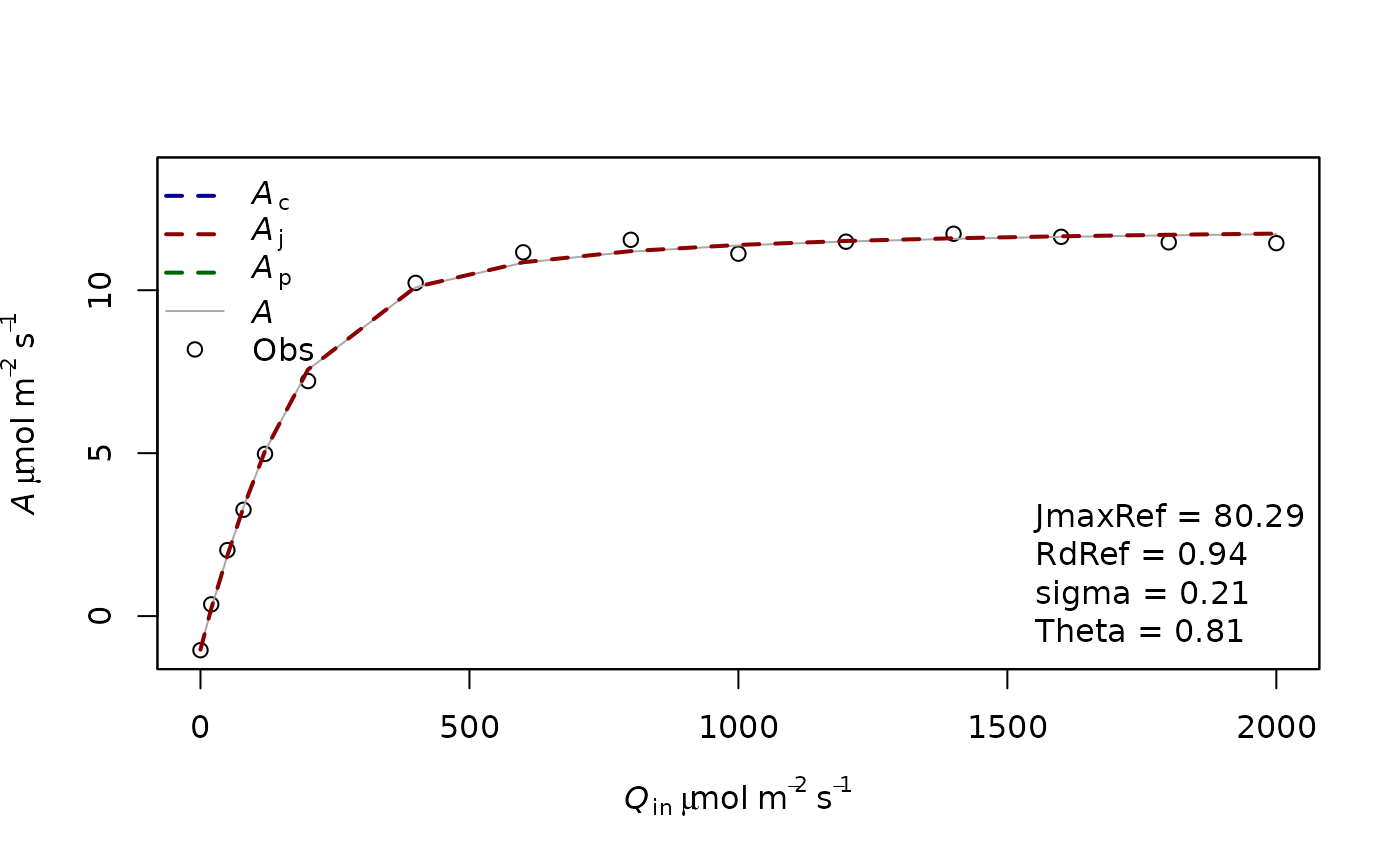
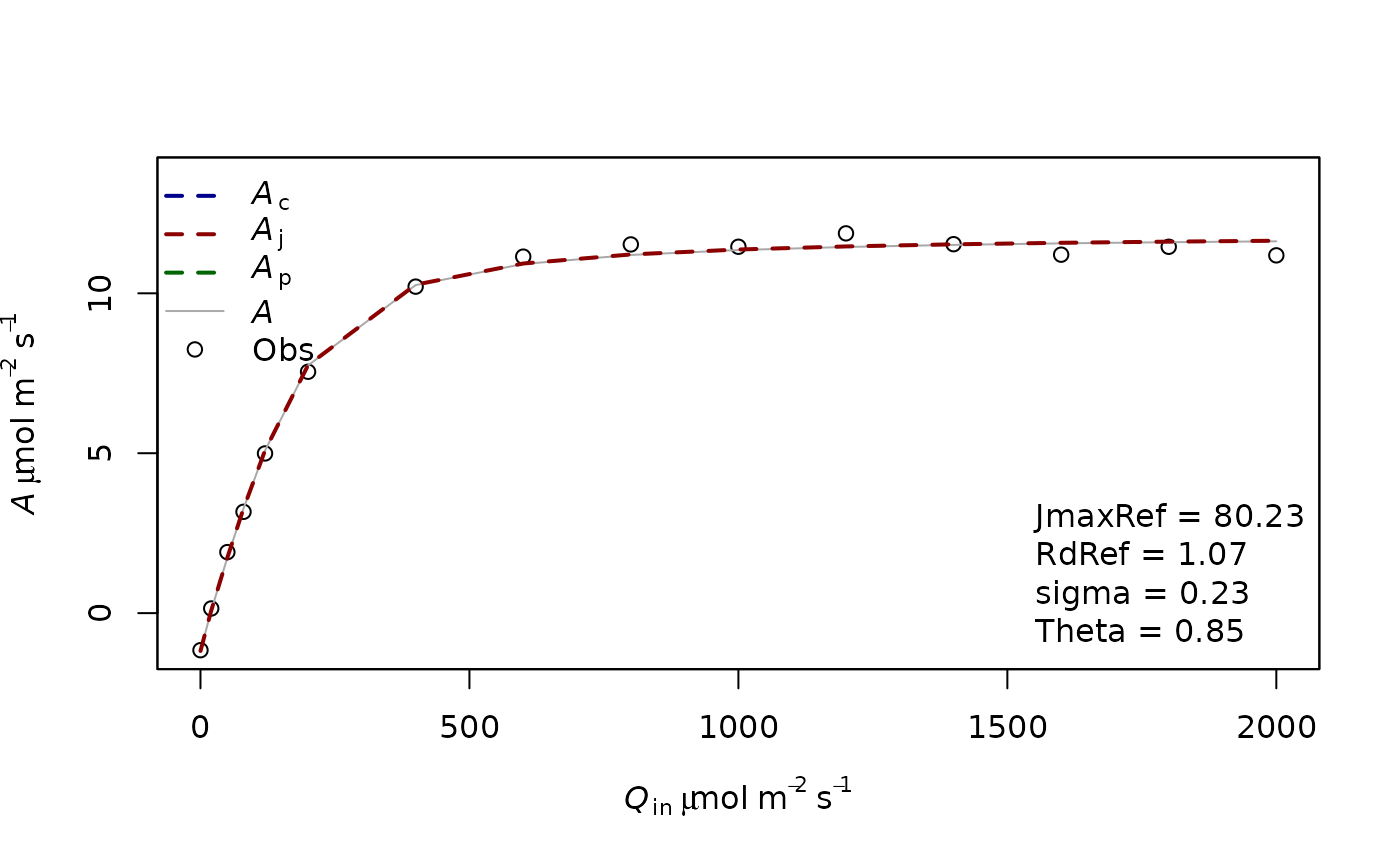
Deploying to gh-pages from @ CUG-hydro/LeafGasExchange@0faab751093cabe184581098b58cc48c0c13c539 🚀

diff --git a/articles/Aq_fitting.html b/articles/Aq_fitting.html
@@ -175,14 +175,14 @@ this assumption later.</p>
 <span>                   modify.init<span class="op">=</span><span class="cn">TRUE</span>,do.plot<span class="op">=</span><span class="cn">TRUE</span>,type<span class="op">=</span><span class="st">'Aq'</span><span class="op">)</span></span></code></pre></div>
 <pre><code><span><span class="co">## $par</span></span>
 <span><span class="co">##    JmaxRef      RdRef      Theta </span></span>
-<span><span class="co">## 91.1058040  1.0993250  0.6656334 </span></span>
+<span><span class="co">## 88.2252853  0.9711878  0.6978096 </span></span>
 <span><span class="co">## </span></span>
 <span><span class="co">## $value</span></span>
-<span><span class="co">## [1] 0.356863</span></span>
+<span><span class="co">## [1] 0.1896975</span></span>
 <span><span class="co">## </span></span>
 <span><span class="co">## $counts</span></span>
 <span><span class="co">## function gradient </span></span>
-<span><span class="co">##      120       NA </span></span>
+<span><span class="co">##      126       NA </span></span>
 <span><span class="co">## </span></span>
 <span><span class="co">## $convergence</span></span>
 <span><span class="co">## [1] 0</span></span>
@@ -190,7 +190,7 @@ this assumption later.</p>
 <span><span class="co">## $message</span></span>
 <span><span class="co">## NULL</span></span>
 <span><span class="co">## </span></span>
-<span><span class="co">## [1] "sd 0.15424288223646"</span></span>
+<span><span class="co">## [1] "sd 0.112456671774165"</span></span>
 <span><span class="co">## Length  Class   Mode </span></span>
 <span><span class="co">##      1   mle2     S4</span></span></code></pre>
 <p><img src="Aq_fitting_files/figure-html/unnamed-chunk-5-1.png" width="700"></p>
@@ -202,22 +202,22 @@ no information in the curve to estimate it.</p>
 <span>                   modify.init<span class="op">=</span><span class="cn">TRUE</span>,do.plot<span class="op">=</span><span class="cn">TRUE</span>,type<span class="op">=</span><span class="st">'Aq'</span><span class="op">)</span></span></code></pre></div>
 <pre><code><span><span class="co">## $par</span></span>
 <span><span class="co">##     JmaxRef    VcmaxRef       RdRef       Theta </span></span>
-<span><span class="co">##  91.1472544 223.2039836   1.0999653   0.6656598 </span></span>
+<span><span class="co">##  88.3400110 107.2449843   0.9708728   0.6976149 </span></span>
 <span><span class="co">## </span></span>
 <span><span class="co">## $value</span></span>
-<span><span class="co">## [1] 0.3569293</span></span>
+<span><span class="co">## [1] 0.1896713</span></span>
 <span><span class="co">## </span></span>
 <span><span class="co">## $counts</span></span>
 <span><span class="co">## function gradient </span></span>
-<span><span class="co">##      501       NA </span></span>
+<span><span class="co">##      445       NA </span></span>
 <span><span class="co">## </span></span>
 <span><span class="co">## $convergence</span></span>
-<span><span class="co">## [1] 1</span></span>
+<span><span class="co">## [1] 0</span></span>
 <span><span class="co">## </span></span>
 <span><span class="co">## $message</span></span>
 <span><span class="co">## NULL</span></span>
 <span><span class="co">## </span></span>
-<span><span class="co">## [1] "sd 0.154257212993837"</span></span>
+<span><span class="co">## [1] "sd 0.112448902807969"</span></span>
 <span><span class="co">## Length  Class   Mode </span></span>
 <span><span class="co">##      1   mle2     S4</span></span></code></pre>
 <p><img src="Aq_fitting_files/figure-html/unnamed-chunk-6-1.png" width="700"></p>
@@ -231,34 +231,34 @@ in the input data file of the function (see the help of f.fitting for
 more info).</p>
 <div class="sourceCode" id="cb9"><pre class="downlit sourceCode r">
 <code class="sourceCode R"><span><span class="fu"><a href="https://rdrr.io/r/stats/confint.html" class="external-link">confint</a></span><span class="op">(</span><span class="va">fitting1</span><span class="op">[[</span><span class="fl">2</span><span class="op">]</span><span class="op">]</span><span class="op">)</span></span></code></pre></div>
-<pre><code><span><span class="co">##              2.5 %     97.5 %</span></span>
-<span><span class="co">## sigma    0.1121193  0.2315494</span></span>
-<span><span class="co">## JmaxRef 89.5922893 92.6655218</span></span>
-<span><span class="co">## RdRef    0.9488200  1.2489213</span></span>
-<span><span class="co">## Theta    0.6028079  0.7204107</span></span></code></pre>
+<pre><code><span><span class="co">##               2.5 %     97.5 %</span></span>
+<span><span class="co">## sigma    0.08174494  0.1688199</span></span>
+<span><span class="co">## JmaxRef 87.16275567 89.3061391</span></span>
+<span><span class="co">## RdRef    0.86066886  1.0810409</span></span>
+<span><span class="co">## Theta    0.65500027  0.7364002</span></span></code></pre>
 <p>It is possible to compare the AIC of the two models using the base
 function AIC or BIC. The lower AIC or BIC corresponds to the best model.
 It shows in this case that adding VcmaxRef is not usefull.</p>
 <div class="sourceCode" id="cb11"><pre class="downlit sourceCode r">
 <code class="sourceCode R"><span><span class="fu"><a href="https://rdrr.io/r/stats/AIC.html" class="external-link">BIC</a></span><span class="op">(</span><span class="va">fitting1</span><span class="op">[[</span><span class="fl">2</span><span class="op">]</span><span class="op">]</span><span class="op">)</span></span></code></pre></div>
-<pre><code><span><span class="co">## [1] -7.963471</span></span></code></pre>
+<pre><code><span><span class="co">## [1] -17.44228</span></span></code></pre>
 <div class="sourceCode" id="cb13"><pre class="downlit sourceCode r">
 <code class="sourceCode R"><span><span class="fu"><a href="https://rdrr.io/r/stats/AIC.html" class="external-link">BIC</a></span><span class="op">(</span><span class="va">fitting2</span><span class="op">[[</span><span class="fl">2</span><span class="op">]</span><span class="op">]</span><span class="op">)</span></span></code></pre></div>
-<pre><code><span><span class="co">## [1] -6.574518</span></span></code></pre>
+<pre><code><span><span class="co">## [1] -16.05806</span></span></code></pre>
 <p>We can redo this procedure for the second simulated curve:</p>
 <div class="sourceCode" id="cb15"><pre class="downlit sourceCode r">
 <code class="sourceCode R"><span><span class="va">fitting3</span><span class="op">=</span><span class="fu"><a href="../reference/f.fitting.html">f.fitting</a></span><span class="op">(</span>measures <span class="op">=</span> <span class="va">measures2</span>,Start <span class="op">=</span> <span class="fu"><a href="https://rdrr.io/r/base/list.html" class="external-link">list</a></span><span class="op">(</span>JmaxRef <span class="op">=</span> <span class="fl">30</span>, RdRef <span class="op">=</span> <span class="fl">1</span>,Theta<span class="op">=</span><span class="fl">0.5</span><span class="op">)</span>,param<span class="op">=</span><span class="fu"><a href="../reference/f.make.param.html">f.make.param</a></span><span class="op">(</span>abso<span class="op">=</span><span class="fl">0.9</span>,VcmaxRef<span class="op">=</span><span class="fl">150</span><span class="op">)</span>,</span>
 <span>                   modify.init<span class="op">=</span><span class="cn">TRUE</span>,do.plot<span class="op">=</span><span class="cn">TRUE</span>,type<span class="op">=</span><span class="st">'Aq'</span><span class="op">)</span></span></code></pre></div>
 <pre><code><span><span class="co">## $par</span></span>
 <span><span class="co">##    JmaxRef      RdRef      Theta </span></span>
-<span><span class="co">## 80.2918206  0.9357455  0.8066975 </span></span>
+<span><span class="co">## 80.2257330  1.0748982  0.8526667 </span></span>
 <span><span class="co">## </span></span>
 <span><span class="co">## $value</span></span>
-<span><span class="co">## [1] 0.6441247</span></span>
+<span><span class="co">## [1] 0.7857634</span></span>
 <span><span class="co">## </span></span>
 <span><span class="co">## $counts</span></span>
 <span><span class="co">## function gradient </span></span>
-<span><span class="co">##      132       NA </span></span>
+<span><span class="co">##      116       NA </span></span>
 <span><span class="co">## </span></span>
 <span><span class="co">## $convergence</span></span>
 <span><span class="co">## [1] 0</span></span>
@@ -266,7 +266,7 @@ It shows in this case that adding VcmaxRef is not usefull.</p>
 <span><span class="co">## $message</span></span>
 <span><span class="co">## NULL</span></span>
 <span><span class="co">## </span></span>
-<span><span class="co">## [1] "sd 0.207223659568046"</span></span>
+<span><span class="co">## [1] "sd 0.228876012575196"</span></span>
 <span><span class="co">## Length  Class   Mode </span></span>
 <span><span class="co">##      1   mle2     S4</span></span></code></pre>
 <p><img src="Aq_fitting_files/figure-html/unnamed-chunk-9-1.png" width="700"></p>
@@ -275,14 +275,14 @@ It shows in this case that adding VcmaxRef is not usefull.</p>
 <span>                   modify.init<span class="op">=</span><span class="cn">TRUE</span>,do.plot<span class="op">=</span><span class="cn">TRUE</span>,type<span class="op">=</span><span class="st">'Aq'</span><span class="op">)</span></span></code></pre></div>
 <pre><code><span><span class="co">## $par</span></span>
 <span><span class="co">##    JmaxRef      RdRef      Theta   VcmaxRef </span></span>
-<span><span class="co">## 91.0102515  0.8282943  0.6501977 54.4861347 </span></span>
+<span><span class="co">## 87.9468745  0.9802474  0.7498365 55.2109305 </span></span>
 <span><span class="co">## </span></span>
 <span><span class="co">## $value</span></span>
-<span><span class="co">## [1] 0.2620363</span></span>
+<span><span class="co">## [1] 0.431244</span></span>
 <span><span class="co">## </span></span>
 <span><span class="co">## $counts</span></span>
 <span><span class="co">## function gradient </span></span>
-<span><span class="co">##      299       NA </span></span>
+<span><span class="co">##      449       NA </span></span>
 <span><span class="co">## </span></span>
 <span><span class="co">## $convergence</span></span>
 <span><span class="co">## [1] 0</span></span>
@@ -290,7 +290,7 @@ It shows in this case that adding VcmaxRef is not usefull.</p>
 <span><span class="co">## $message</span></span>
 <span><span class="co">## NULL</span></span>
 <span><span class="co">## </span></span>
-<span><span class="co">## [1] "sd 0.132170675027424"</span></span>
+<span><span class="co">## [1] "sd 0.16955707050959"</span></span>
 <span><span class="co">## Length  Class   Mode </span></span>
 <span><span class="co">##      1   mle2     S4</span></span></code></pre>
 <p><img src="Aq_fitting_files/figure-html/unnamed-chunk-9-2.png" width="700"></p>
@@ -298,10 +298,10 @@ It shows in this case that adding VcmaxRef is not usefull.</p>
 a parameter to estimate:</p>
 <div class="sourceCode" id="cb19"><pre class="downlit sourceCode r">
 <code class="sourceCode R"><span><span class="fu"><a href="https://rdrr.io/r/stats/AIC.html" class="external-link">BIC</a></span><span class="op">(</span><span class="va">fitting3</span><span class="op">[[</span><span class="fl">2</span><span class="op">]</span><span class="op">]</span><span class="op">)</span></span></code></pre></div>
-<pre><code><span><span class="co">## [1] 0.8946358</span></span></code></pre>
+<pre><code><span><span class="co">## [1] 3.876087</span></span></code></pre>
 <div class="sourceCode" id="cb21"><pre class="downlit sourceCode r">
 <code class="sourceCode R"><span><span class="fu"><a href="https://rdrr.io/r/stats/AIC.html" class="external-link">BIC</a></span><span class="op">(</span><span class="va">fitting4</span><span class="op">[[</span><span class="fl">2</span><span class="op">]</span><span class="op">]</span><span class="op">)</span></span></code></pre></div>
-<pre><code><span><span class="co">## [1] -11.21021</span></span></code></pre>
+<pre><code><span><span class="co">## [1] -3.737345</span></span></code></pre>
 <p>In this case, the model with VcmaxRef is better.</p>
 <p>Generally it is interesting to test the fitting with or without
 VcmaxRef, and sometimes with or without Theta. Note that Theta can be

diff --git a/reference/f.Norman.Radiation.html b/reference/f.Norman.Radiation.html
@@ -1,8 +1,7 @@
 <!DOCTYPE html>
-<!-- Generated by pkgdown: do not edit by hand --><html lang="en"><head><meta http-equiv="Content-Type" content="text/html; charset=UTF-8"><meta charset="utf-8"><meta http-equiv="X-UA-Compatible" content="IE=edge"><meta name="viewport" content="width=device-width, initial-scale=1.0"><title>Norman 1979 Radiation interception model
-Converted into a R code from the original code of Gordon Bonan: Bonan, G. (2019). Climate Change and Terrestrial Ecosystem Modeling. Cambridge: Cambridge University Press. doi:10.1017/9781107339217 — f.Norman.Radiation • LeafGasExchange</title><!-- jquery --><script src="https://cdnjs.cloudflare.com/ajax/libs/jquery/3.4.1/jquery.min.js" integrity="sha256-CSXorXvZcTkaix6Yvo6HppcZGetbYMGWSFlBw8HfCJo=" crossorigin="anonymous"></script><!-- Bootstrap --><link rel="stylesheet" href="https://cdnjs.cloudflare.com/ajax/libs/twitter-bootstrap/3.4.1/css/bootstrap.min.css" integrity="sha256-bZLfwXAP04zRMK2BjiO8iu9pf4FbLqX6zitd+tIvLhE=" crossorigin="anonymous"><script src="https://cdnjs.cloudflare.com/ajax/libs/twitter-bootstrap/3.4.1/js/bootstrap.min.js" integrity="sha256-nuL8/2cJ5NDSSwnKD8VqreErSWHtnEP9E7AySL+1ev4=" crossorigin="anonymous"></script><!-- bootstrap-toc --><link rel="stylesheet" href="../bootstrap-toc.css"><script src="../bootstrap-toc.js"></script><!-- Font Awesome icons --><link rel="stylesheet" href="https://cdnjs.cloudflare.com/ajax/libs/font-awesome/5.12.1/css/all.min.css" integrity="sha256-mmgLkCYLUQbXn0B1SRqzHar6dCnv9oZFPEC1g1cwlkk=" crossorigin="anonymous"><link rel="stylesheet" href="https://cdnjs.cloudflare.com/ajax/libs/font-awesome/5.12.1/css/v4-shims.min.css" integrity="sha256-wZjR52fzng1pJHwx4aV2AO3yyTOXrcDW7jBpJtTwVxw=" crossorigin="anonymous"><!-- clipboard.js --><script src="https://cdnjs.cloudflare.com/ajax/libs/clipboard.js/2.0.6/clipboard.min.js" integrity="sha256-inc5kl9MA1hkeYUt+EC3BhlIgyp/2jDIyBLS6k3UxPI=" crossorigin="anonymous"></script><!-- headroom.js --><script src="https://cdnjs.cloudflare.com/ajax/libs/headroom/0.11.0/headroom.min.js" integrity="sha256-AsUX4SJE1+yuDu5+mAVzJbuYNPHj/WroHuZ8Ir/CkE0=" crossorigin="anonymous"></script><script src="https://cdnjs.cloudflare.com/ajax/libs/headroom/0.11.0/jQuery.headroom.min.js" integrity="sha256-ZX/yNShbjqsohH1k95liqY9Gd8uOiE1S4vZc+9KQ1K4=" crossorigin="anonymous"></script><!-- pkgdown --><link href="../pkgdown.css" rel="stylesheet"><script src="../pkgdown.js"></script><meta property="og:title" content="Norman 1979 Radiation interception model
-Converted into a R code from the original code of Gordon Bonan: Bonan, G. (2019). Climate Change and Terrestrial Ecosystem Modeling. Cambridge: Cambridge University Press. doi:10.1017/9781107339217 — f.Norman.Radiation"><meta property="og:description" content="Norman 1979 Radiation interception model
-Converted into a R code from the original code of Gordon Bonan: Bonan, G. (2019). Climate Change and Terrestrial Ecosystem Modeling. Cambridge: Cambridge University Press. doi:10.1017/9781107339217"><!-- mathjax --><script src="https://cdnjs.cloudflare.com/ajax/libs/mathjax/2.7.5/MathJax.js" integrity="sha256-nvJJv9wWKEm88qvoQl9ekL2J+k/RWIsaSScxxlsrv8k=" crossorigin="anonymous"></script><script src="https://cdnjs.cloudflare.com/ajax/libs/mathjax/2.7.5/config/TeX-AMS-MML_HTMLorMML.js" integrity="sha256-84DKXVJXs0/F8OTMzX4UR909+jtl4G7SPypPavF+GfA=" crossorigin="anonymous"></script><!--[if lt IE 9]>
+<!-- Generated by pkgdown: do not edit by hand --><html lang="en"><head><meta http-equiv="Content-Type" content="text/html; charset=UTF-8"><meta charset="utf-8"><meta http-equiv="X-UA-Compatible" content="IE=edge"><meta name="viewport" content="width=device-width, initial-scale=1.0"><title>Norman 1979 Radiation interception model — f.Norman.Radiation • LeafGasExchange</title><!-- jquery --><script src="https://cdnjs.cloudflare.com/ajax/libs/jquery/3.4.1/jquery.min.js" integrity="sha256-CSXorXvZcTkaix6Yvo6HppcZGetbYMGWSFlBw8HfCJo=" crossorigin="anonymous"></script><!-- Bootstrap --><link rel="stylesheet" href="https://cdnjs.cloudflare.com/ajax/libs/twitter-bootstrap/3.4.1/css/bootstrap.min.css" integrity="sha256-bZLfwXAP04zRMK2BjiO8iu9pf4FbLqX6zitd+tIvLhE=" crossorigin="anonymous"><script src="https://cdnjs.cloudflare.com/ajax/libs/twitter-bootstrap/3.4.1/js/bootstrap.min.js" integrity="sha256-nuL8/2cJ5NDSSwnKD8VqreErSWHtnEP9E7AySL+1ev4=" crossorigin="anonymous"></script><!-- bootstrap-toc --><link rel="stylesheet" href="../bootstrap-toc.css"><script src="../bootstrap-toc.js"></script><!-- Font Awesome icons --><link rel="stylesheet" href="https://cdnjs.cloudflare.com/ajax/libs/font-awesome/5.12.1/css/all.min.css" integrity="sha256-mmgLkCYLUQbXn0B1SRqzHar6dCnv9oZFPEC1g1cwlkk=" crossorigin="anonymous"><link rel="stylesheet" href="https://cdnjs.cloudflare.com/ajax/libs/font-awesome/5.12.1/css/v4-shims.min.css" integrity="sha256-wZjR52fzng1pJHwx4aV2AO3yyTOXrcDW7jBpJtTwVxw=" crossorigin="anonymous"><!-- clipboard.js --><script src="https://cdnjs.cloudflare.com/ajax/libs/clipboard.js/2.0.6/clipboard.min.js" integrity="sha256-inc5kl9MA1hkeYUt+EC3BhlIgyp/2jDIyBLS6k3UxPI=" crossorigin="anonymous"></script><!-- headroom.js --><script src="https://cdnjs.cloudflare.com/ajax/libs/headroom/0.11.0/headroom.min.js" integrity="sha256-AsUX4SJE1+yuDu5+mAVzJbuYNPHj/WroHuZ8Ir/CkE0=" crossorigin="anonymous"></script><script src="https://cdnjs.cloudflare.com/ajax/libs/headroom/0.11.0/jQuery.headroom.min.js" integrity="sha256-ZX/yNShbjqsohH1k95liqY9Gd8uOiE1S4vZc+9KQ1K4=" crossorigin="anonymous"></script><!-- pkgdown --><link href="../pkgdown.css" rel="stylesheet"><script src="../pkgdown.js"></script><meta property="og:title" content="Norman 1979 Radiation interception model — f.Norman.Radiation"><meta property="og:description" content="Converted into a R code from the original code of Gordon Bonan: Bonan, G.
+(2019). Climate Change and Terrestrial Ecosystem Modeling. Cambridge:
+Cambridge University Press. doi:10.1017/9781107339217"><!-- mathjax --><script src="https://cdnjs.cloudflare.com/ajax/libs/mathjax/2.7.5/MathJax.js" integrity="sha256-nvJJv9wWKEm88qvoQl9ekL2J+k/RWIsaSScxxlsrv8k=" crossorigin="anonymous"></script><script src="https://cdnjs.cloudflare.com/ajax/libs/mathjax/2.7.5/config/TeX-AMS-MML_HTMLorMML.js" integrity="sha256-84DKXVJXs0/F8OTMzX4UR909+jtl4G7SPypPavF+GfA=" crossorigin="anonymous"></script><!--[if lt IE 9]>
 <script src="https://oss.maxcdn.com/html5shiv/3.7.3/html5shiv.min.js"></script>
 <script src="https://oss.maxcdn.com/respond/1.4.2/respond.min.js"></script>
 <![endif]--></head><body data-spy="scroll" data-target="#toc">
@@ -59,15 +58,15 @@ Converted into a R code from the original code of Gordon Bonan: Bonan, G. (2019)
       </header><div class="row">
   <div class="col-md-9 contents">
     <div class="page-header">
-    <h1>Norman 1979 Radiation interception model
-Converted into a R code from the original code of Gordon Bonan: Bonan, G. (2019). Climate Change and Terrestrial Ecosystem Modeling. Cambridge: Cambridge University Press. doi:10.1017/9781107339217</h1>
+    <h1>Norman 1979 Radiation interception model</h1>
     
     <div class="hidden name"><code>f.Norman.Radiation.Rd</code></div>
     </div>
 
     <div class="ref-description">
-    <p>Norman 1979 Radiation interception model
-Converted into a R code from the original code of Gordon Bonan: Bonan, G. (2019). Climate Change and Terrestrial Ecosystem Modeling. Cambridge: Cambridge University Press. doi:10.1017/9781107339217</p>
+    <p>Converted into a R code from the original code of Gordon Bonan: Bonan, G.
+(2019). Climate Change and Terrestrial Ecosystem Modeling. Cambridge:
+Cambridge University Press. doi:10.1017/9781107339217</p>
     </div>
 
     <div id="ref-usage">
@@ -101,7 +100,7 @@ Converted into a R code from the original code of Gordon Bonan: Bonan, G. (2019)
 
 
 <dt>Rho_soil_dif</dt>
-<dd><p>Direct beam albedo of ground (soil).</p></dd>
+<dd><p>Diffuse albedo of ground (soil).</p></dd>
 
 
 <dt>cosz</dt>
@@ -145,7 +144,11 @@ fracsha Proportion of shaded leaves</p>
 
     <div id="ref-examples">
     <h2>Examples</h2>
-    <div class="sourceCode"><pre class="sourceCode r"><code><span class="r-in"><span><span class="fu">f.Norman.Radiation</span><span class="op">(</span>Rho<span class="op">=</span><span class="fl">0.1</span>, Tau<span class="op">=</span><span class="fl">0.05</span>, PARdir<span class="op">=</span><span class="fl">1000</span>,PARdif<span class="op">=</span><span class="fl">200</span>,dLAI<span class="op">=</span><span class="fu"><a href="https://rdrr.io/r/base/c.html" class="external-link">c</a></span><span class="op">(</span><span class="fu"><a href="https://rdrr.io/r/base/rep.html" class="external-link">rep</a></span><span class="op">(</span><span class="fl">6</span><span class="op">/</span><span class="fl">20</span>,<span class="fl">20</span><span class="op">)</span><span class="op">)</span>,nlayers<span class="op">=</span><span class="fl">20</span>,Rho_soil_dif <span class="op">=</span> <span class="fl">0.1</span>,Rho_soil_dir <span class="op">=</span> <span class="fl">0.1</span>,cosz <span class="op">=</span> <span class="fl">0.88</span>,chil <span class="op">=</span> <span class="fl">0.1</span>,clumpfac <span class="op">=</span> <span class="fl">0.8</span><span class="op">)</span></span></span>
+    <div class="sourceCode"><pre class="sourceCode r"><code><span class="r-in"><span><span class="fu">f.Norman.Radiation</span><span class="op">(</span></span></span>
+<span class="r-in"><span>  Rho <span class="op">=</span> <span class="fl">0.1</span>, Tau <span class="op">=</span> <span class="fl">0.05</span>, PARdir <span class="op">=</span> <span class="fl">1000</span>, PARdif <span class="op">=</span> <span class="fl">200</span>,</span></span>
+<span class="r-in"><span>  dLAI <span class="op">=</span> <span class="fu"><a href="https://rdrr.io/r/base/c.html" class="external-link">c</a></span><span class="op">(</span><span class="fu"><a href="https://rdrr.io/r/base/rep.html" class="external-link">rep</a></span><span class="op">(</span><span class="fl">6</span> <span class="op">/</span> <span class="fl">20</span>, <span class="fl">20</span><span class="op">)</span><span class="op">)</span>, nlayers <span class="op">=</span> <span class="fl">20</span>, Rho_soil_dif <span class="op">=</span> <span class="fl">0.1</span>, Rho_soil_dir <span class="op">=</span> <span class="fl">0.1</span>,</span></span>
+<span class="r-in"><span>  cosz <span class="op">=</span> <span class="fl">0.88</span>, chil <span class="op">=</span> <span class="fl">0.1</span>, clumpfac <span class="op">=</span> <span class="fl">0.8</span></span></span>
+<span class="r-in"><span><span class="op">)</span></span></span>
 <span class="r-out co"><span class="r-pr">#&gt;</span> [1] "Radiation model for a total LAI of  6"</span>
 <span class="r-out co"><span class="r-pr">#&gt;</span> $PARsun</span>
 <span class="r-out co"><span class="r-pr">#&gt;</span>  [1] 656.2927 636.4681 619.5413 605.0824 592.7271 582.1661 573.1369 565.4166</span>

diff --git a/reference/f.fitting.html b/reference/f.fitting.html
@@ -123,15 +123,15 @@ This function uses two methods to fit the data. First by minimizing the residual
 <span class="r-in"><span></span></span>
 <span class="r-in"><span><span class="fu">f.fitting</span><span class="op">(</span>measures<span class="op">=</span><span class="va">data</span>,id.name<span class="op">=</span><span class="cn">NULL</span>,Start<span class="op">=</span><span class="fu"><a href="https://rdrr.io/r/base/list.html" class="external-link">list</a></span><span class="op">(</span>JmaxRef<span class="op">=</span><span class="fl">90</span>,VcmaxRef<span class="op">=</span><span class="fl">70</span>,RdRef<span class="op">=</span><span class="fl">1</span><span class="op">)</span>,param<span class="op">=</span><span class="fu"><a href="f.make.param.html">f.make.param</a></span><span class="op">(</span><span class="op">)</span><span class="op">)</span></span></span>
 <span class="r-out co"><span class="r-pr">#&gt;</span> $par</span>
-<span class="r-out co"><span class="r-pr">#&gt;</span>   JmaxRef  VcmaxRef     RdRef </span>
-<span class="r-out co"><span class="r-pr">#&gt;</span> 80.032489 47.740642  1.061436 </span>
+<span class="r-out co"><span class="r-pr">#&gt;</span>  JmaxRef VcmaxRef    RdRef </span>
+<span class="r-out co"><span class="r-pr">#&gt;</span> 85.90353 49.16482  2.02100 </span>
 <span class="r-out co"><span class="r-pr">#&gt;</span> </span>
 <span class="r-out co"><span class="r-pr">#&gt;</span> $value</span>
-<span class="r-out co"><span class="r-pr">#&gt;</span> [1] 3.167029</span>
+<span class="r-out co"><span class="r-pr">#&gt;</span> [1] 4.629369</span>
 <span class="r-out co"><span class="r-pr">#&gt;</span> </span>
 <span class="r-out co"><span class="r-pr">#&gt;</span> $counts</span>
 <span class="r-out co"><span class="r-pr">#&gt;</span> function gradient </span>
-<span class="r-out co"><span class="r-pr">#&gt;</span>      108       NA </span>
+<span class="r-out co"><span class="r-pr">#&gt;</span>      146       NA </span>
 <span class="r-out co"><span class="r-pr">#&gt;</span> </span>
 <span class="r-out co"><span class="r-pr">#&gt;</span> $convergence</span>
 <span class="r-out co"><span class="r-pr">#&gt;</span> [1] 0</span>
@@ -139,21 +139,21 @@ This function uses two methods to fit the data. First by minimizing the residual
 <span class="r-out co"><span class="r-pr">#&gt;</span> $message</span>
 <span class="r-out co"><span class="r-pr">#&gt;</span> NULL</span>
 <span class="r-out co"><span class="r-pr">#&gt;</span> </span>
-<span class="r-out co"><span class="r-pr">#&gt;</span> [1] "sd 0.39793395718603"</span>
+<span class="r-out co"><span class="r-pr">#&gt;</span> [1] "sd 0.481111694451162"</span>
 <span class="r-out co"><span class="r-pr">#&gt;</span> Length  Class   Mode </span>
 <span class="r-out co"><span class="r-pr">#&gt;</span>      1   mle2     S4 </span>
 <span class="r-plt img"><img src="f.fitting-1.png" alt="" width="700" height="433"></span>
 <span class="r-out co"><span class="r-pr">#&gt;</span> [[1]]</span>
 <span class="r-out co"><span class="r-pr">#&gt;</span> [[1]]$par</span>
-<span class="r-out co"><span class="r-pr">#&gt;</span>   JmaxRef  VcmaxRef     RdRef </span>
-<span class="r-out co"><span class="r-pr">#&gt;</span> 80.032489 47.740642  1.061436 </span>
+<span class="r-out co"><span class="r-pr">#&gt;</span>  JmaxRef VcmaxRef    RdRef </span>
+<span class="r-out co"><span class="r-pr">#&gt;</span> 85.90353 49.16482  2.02100 </span>
 <span class="r-out co"><span class="r-pr">#&gt;</span> </span>
 <span class="r-out co"><span class="r-pr">#&gt;</span> [[1]]$value</span>
-<span class="r-out co"><span class="r-pr">#&gt;</span> [1] 3.167029</span>
+<span class="r-out co"><span class="r-pr">#&gt;</span> [1] 4.629369</span>
 <span class="r-out co"><span class="r-pr">#&gt;</span> </span>
 <span class="r-out co"><span class="r-pr">#&gt;</span> [[1]]$counts</span>
 <span class="r-out co"><span class="r-pr">#&gt;</span> function gradient </span>
-<span class="r-out co"><span class="r-pr">#&gt;</span>      108       NA </span>
+<span class="r-out co"><span class="r-pr">#&gt;</span>      146       NA </span>
 <span class="r-out co"><span class="r-pr">#&gt;</span> </span>
 <span class="r-out co"><span class="r-pr">#&gt;</span> [[1]]$convergence</span>
 <span class="r-out co"><span class="r-pr">#&gt;</span> [1] 0</span>
@@ -169,19 +169,19 @@ This function uses two methods to fit the data. First by minimizing the residual
 <span class="r-out co"><span class="r-pr">#&gt;</span> </span>
 <span class="r-out co"><span class="r-pr">#&gt;</span> Coefficients:</span>
 <span class="r-out co"><span class="r-pr">#&gt;</span>        sigma            R           O2         TRef         Patm      JmaxRef </span>
-<span class="r-out co"><span class="r-pr">#&gt;</span> 3.979551e-01 8.314000e+00 2.100000e+02 2.981600e+02 1.010000e+02 8.003258e+01 </span>
+<span class="r-out co"><span class="r-pr">#&gt;</span> 4.811105e-01 8.314000e+00 2.100000e+02 2.981600e+02 1.010000e+02 8.590524e+01 </span>
 <span class="r-out co"><span class="r-pr">#&gt;</span>       JmaxHa       JmaxHd        JmaxS     VcmaxRef      VcmaxHa      VcmaxHd </span>
-<span class="r-out co"><span class="r-pr">#&gt;</span> 4.354000e+04 1.520400e+05 4.950000e+02 4.774059e+01 6.533000e+04 1.492500e+05 </span>
+<span class="r-out co"><span class="r-pr">#&gt;</span> 4.354000e+04 1.520400e+05 4.950000e+02 4.916447e+01 6.533000e+04 1.492500e+05 </span>
 <span class="r-out co"><span class="r-pr">#&gt;</span>       VcmaxS        TpRef         TpHa         TpHd          TpS      thetacj </span>
 <span class="r-out co"><span class="r-pr">#&gt;</span> 4.850000e+02 8.333333e+00 5.310000e+04 1.506500e+05 4.900000e+02 9.990000e-01 </span>
 <span class="r-out co"><span class="r-pr">#&gt;</span>      thetaip        RdRef         RdHa         RdHd          RdS        KcRef </span>
-<span class="r-out co"><span class="r-pr">#&gt;</span> 9.990000e-01 1.061521e+00 4.639000e+04 1.506500e+05 4.900000e+02 4.049000e+02 </span>
+<span class="r-out co"><span class="r-pr">#&gt;</span> 9.990000e-01 2.021097e+00 4.639000e+04 1.506500e+05 4.900000e+02 4.049000e+02 </span>
 <span class="r-out co"><span class="r-pr">#&gt;</span>         KcHa        KoRef         KoHa     GstarRef      GstarHa         abso </span>
 <span class="r-out co"><span class="r-pr">#&gt;</span> 7.943000e+04 2.784000e+02 3.638000e+04 4.275000e+01 3.783000e+04 8.500000e-01 </span>
 <span class="r-out co"><span class="r-pr">#&gt;</span>          aQY        Theta     model.gs           g0           g1        power </span>
 <span class="r-out co"><span class="r-pr">#&gt;</span> 4.250000e-01 7.000000e-01 0.000000e+00 2.000000e-02 4.100000e+00 5.000000e-01 </span>
 <span class="r-out co"><span class="r-pr">#&gt;</span> </span>
-<span class="r-out co"><span class="r-pr">#&gt;</span> Log-likelihood: -9.95 </span>
+<span class="r-out co"><span class="r-pr">#&gt;</span> Log-likelihood: -13.75 </span>
 <span class="r-out co"><span class="r-pr">#&gt;</span> </span>
 <span class="r-out co"><span class="r-pr">#&gt;</span> [[3]]</span>
 <span class="r-out co"><span class="r-pr">#&gt;</span>    Tair   Tleaf     RHs VPDleaf     Qin    Patm </span>

diff --git a/articles/Aci_fitting.html b/articles/Aci_fitting.html
@@ -157,15 +157,15 @@ curve.</p>
 <code class="sourceCode R"><span><span class="va">fitting1</span><span class="op">=</span><span class="fu"><a href="../reference/f.fitting.html">f.fitting</a></span><span class="op">(</span>measures <span class="op">=</span> <span class="va">measures</span>,Start <span class="op">=</span> <span class="fu"><a href="https://rdrr.io/r/base/list.html" class="external-link">list</a></span><span class="op">(</span>JmaxRef <span class="op">=</span> <span class="fl">30</span>, VcmaxRef <span class="op">=</span> <span class="fl">50</span>, RdRef <span class="op">=</span> <span class="fl">1</span><span class="op">)</span>,param<span class="op">=</span><span class="fu"><a href="../reference/f.make.param.html">f.make.param</a></span><span class="op">(</span><span class="op">)</span>,</span>
 <span>                   modify.init<span class="op">=</span><span class="cn">TRUE</span>,do.plot<span class="op">=</span><span class="cn">TRUE</span>,type<span class="op">=</span><span class="st">'Aci'</span><span class="op">)</span></span></code></pre></div>
 <pre><code><span><span class="co">## $par</span></span>
-<span><span class="co">##    JmaxRef   VcmaxRef      RdRef </span></span>
-<span><span class="co">## 77.0202708 47.9096669  0.8837133 </span></span>
+<span><span class="co">##   JmaxRef  VcmaxRef     RdRef </span></span>
+<span><span class="co">## 78.962494 47.888017  1.125167 </span></span>
 <span><span class="co">## </span></span>
 <span><span class="co">## $value</span></span>
-<span><span class="co">## [1] 16.89123</span></span>
+<span><span class="co">## [1] 17.68251</span></span>
 <span><span class="co">## </span></span>
 <span><span class="co">## $counts</span></span>
 <span><span class="co">## function gradient </span></span>
-<span><span class="co">##      214       NA </span></span>
+<span><span class="co">##      216       NA </span></span>
 <span><span class="co">## </span></span>
 <span><span class="co">## $convergence</span></span>
 <span><span class="co">## [1] 0</span></span>
@@ -173,7 +173,7 @@ curve.</p>
 <span><span class="co">## $message</span></span>
 <span><span class="co">## NULL</span></span>
 <span><span class="co">## </span></span>
-<span><span class="co">## [1] "sd 0.750360470933128"</span></span>
+<span><span class="co">## [1] "sd 0.76773495513519"</span></span>
 <span><span class="co">## Length  Class   Mode </span></span>
 <span><span class="co">##      1   mle2     S4</span></span></code></pre>
 <p><img src="Aci_fitting_files/figure-html/unnamed-chunk-4-1.png" width="700"></p>
@@ -183,14 +183,14 @@ curve.</p>
 <span>                   modify.init<span class="op">=</span><span class="cn">TRUE</span>,do.plot<span class="op">=</span><span class="cn">TRUE</span>,type<span class="op">=</span><span class="st">'Aci'</span><span class="op">)</span></span></code></pre></div>
 <pre><code><span><span class="co">## $par</span></span>
 <span><span class="co">##   JmaxRef  VcmaxRef     RdRef     TpRef </span></span>
-<span><span class="co">## 82.947930 49.612135  1.168832  4.913234 </span></span>
+<span><span class="co">## 90.111777 49.634377  1.469053  4.960355 </span></span>
 <span><span class="co">## </span></span>
 <span><span class="co">## $value</span></span>
-<span><span class="co">## [1] 11.28015</span></span>
+<span><span class="co">## [1] 7.281046</span></span>
 <span><span class="co">## </span></span>
 <span><span class="co">## $counts</span></span>
 <span><span class="co">## function gradient </span></span>
-<span><span class="co">##      407       NA </span></span>
+<span><span class="co">##      369       NA </span></span>
 <span><span class="co">## </span></span>
 <span><span class="co">## $convergence</span></span>
 <span><span class="co">## [1] 0</span></span>
@@ -198,7 +198,7 @@ curve.</p>
 <span><span class="co">## $message</span></span>
 <span><span class="co">## NULL</span></span>
 <span><span class="co">## </span></span>
-<span><span class="co">## [1] "sd 0.613192484693365"</span></span>
+<span><span class="co">## [1] "sd 0.492647476483964"</span></span>
 <span><span class="co">## Length  Class   Mode </span></span>
 <span><span class="co">##      1   mle2     S4</span></span></code></pre>
 <p><img src="Aci_fitting_files/figure-html/unnamed-chunk-5-1.png" width="700"></p>
@@ -213,21 +213,21 @@ more info).</p>
 <div class="sourceCode" id="cb8"><pre class="downlit sourceCode r">
 <code class="sourceCode R"><span><span class="fu"><a href="https://rdrr.io/r/stats/confint.html" class="external-link">confint</a></span><span class="op">(</span><span class="va">fitting2</span><span class="op">[[</span><span class="fl">2</span><span class="op">]</span><span class="op">]</span><span class="op">)</span></span></code></pre></div>
 <pre><code><span><span class="co">##               2.5 %     97.5 %</span></span>
-<span><span class="co">## sigma     0.4857392  0.8083757</span></span>
-<span><span class="co">## JmaxRef  77.4773088 89.2158930</span></span>
-<span><span class="co">## VcmaxRef 45.1100901 54.9294156</span></span>
-<span><span class="co">## TpRef     4.6493722  5.1903012</span></span>
-<span><span class="co">## RdRef     0.4440687  1.9172811</span></span></code></pre>
+<span><span class="co">## sigma     0.3902494  0.6494599</span></span>
+<span><span class="co">## JmaxRef  84.4848286         NA</span></span>
+<span><span class="co">## VcmaxRef 46.0850360 53.3552999</span></span>
+<span><span class="co">## TpRef     4.7420574  5.1695319</span></span>
+<span><span class="co">## RdRef     0.8935010  2.0412868</span></span></code></pre>
 <p>It is possible to compare the AIC of the two models using the base
 function AIC. The lower AIC corresponds to the best model, showing that
 in this case and as expected, the TPU limitation is useful to improve
 the fit of the model.</p>
 <div class="sourceCode" id="cb10"><pre class="downlit sourceCode r">
 <code class="sourceCode R"><span><span class="fu"><a href="https://rdrr.io/r/stats/AIC.html" class="external-link">AIC</a></span><span class="op">(</span><span class="va">fitting1</span><span class="op">[[</span><span class="fl">2</span><span class="op">]</span><span class="op">]</span><span class="op">)</span></span></code></pre></div>
-<pre><code><span><span class="co">## [1] 75.90422</span></span></code></pre>
+<pre><code><span><span class="co">## [1] 77.27767</span></span></code></pre>
 <div class="sourceCode" id="cb12"><pre class="downlit sourceCode r">
 <code class="sourceCode R"><span><span class="fu"><a href="https://rdrr.io/r/stats/AIC.html" class="external-link">AIC</a></span><span class="op">(</span><span class="va">fitting2</span><span class="op">[[</span><span class="fl">2</span><span class="op">]</span><span class="op">]</span><span class="op">)</span></span></code></pre></div>
-<pre><code><span><span class="co">## [1] 65.79171</span></span></code></pre>
+<pre><code><span><span class="co">## [1] 52.65857</span></span></code></pre>
 <p>It is also possible to calculate the interval of confidence and
 prediction of the Aci curve from the outputs of the fitting.</p>
 <div class="sourceCode" id="cb14"><pre class="downlit sourceCode r">

diff --git a/reference/f.A.html b/reference/f.A.html
@@ -133,8 +133,8 @@ function f.make param and corresponds to the parameters implemented in FATES mod
     </div>
     <div id="references">
     <h2>References</h2>
-    <p>Farquhar, G. D., von Caemmerer, S. V., &amp; Berry, J. A. (1980). A biochemical model of photosynthetic CO 2 assimilation in leaves of C 3 species. planta, 149, 78-90.
-Fates parameters: https://github.com/NGEET/fates/blob/main/parameter_files/fates_params_default.cdl.</p>
+    <p>Farquhar, G. D., von Caemmerer, S. V., &amp; Berry, J. A. (1980). A biochemical model of photosynthetic CO 2 assimilation in leaves of C 3 species. planta, 149, 78-90.</p>
+<p>Fates parameters: https://github.com/NGEET/fates/blob/main/parameter_files/fates_params_default.cdl.</p>
     </div>
 
     <div id="ref-examples">

diff --git a/reference/index.html b/reference/index.html
@@ -86,8 +86,7 @@
       </tr><tr><td>
           <p><code><a href="f.Norman.Radiation.html">f.Norman.Radiation()</a></code> </p>
         </td>
-        <td><p>Norman 1979 Radiation interception model
-Converted into a R code from the original code of Gordon Bonan: Bonan, G. (2019). Climate Change and Terrestrial Ecosystem Modeling. Cambridge: Cambridge University Press. doi:10.1017/9781107339217</p></td>
+        <td><p>Norman 1979 Radiation interception model</p></td>
       </tr><tr><td>
           <p><code><a href="f.VcmaxRef.LAI.html">f.VcmaxRef.LAI()</a></code> </p>
         </td>

diff --git a/reference/f.tridiagonal.solver.html b/reference/f.tridiagonal.solver.html
@@ -125,8 +125,9 @@ equations so that:</p>
     </div>
     <div id="details">
     <h2>Details</h2>
-    <p>Tridiagonal solver
-Converted into a R code from the original code of Gordon Bonan: Bonan, G. (2019). Climate Change and Terrestrial Ecosystem Modeling. Cambridge: Cambridge University Press. doi:10.1017/9781107339217</p>
+    <p>Converted into a R code from the original code of Gordon Bonan: Bonan, G.
+(2019). Climate Change and Terrestrial Ecosystem Modeling. Cambridge:
+Cambridge University Press. doi:10.1017/9781107339217</p>
     </div>
 
   </div>
